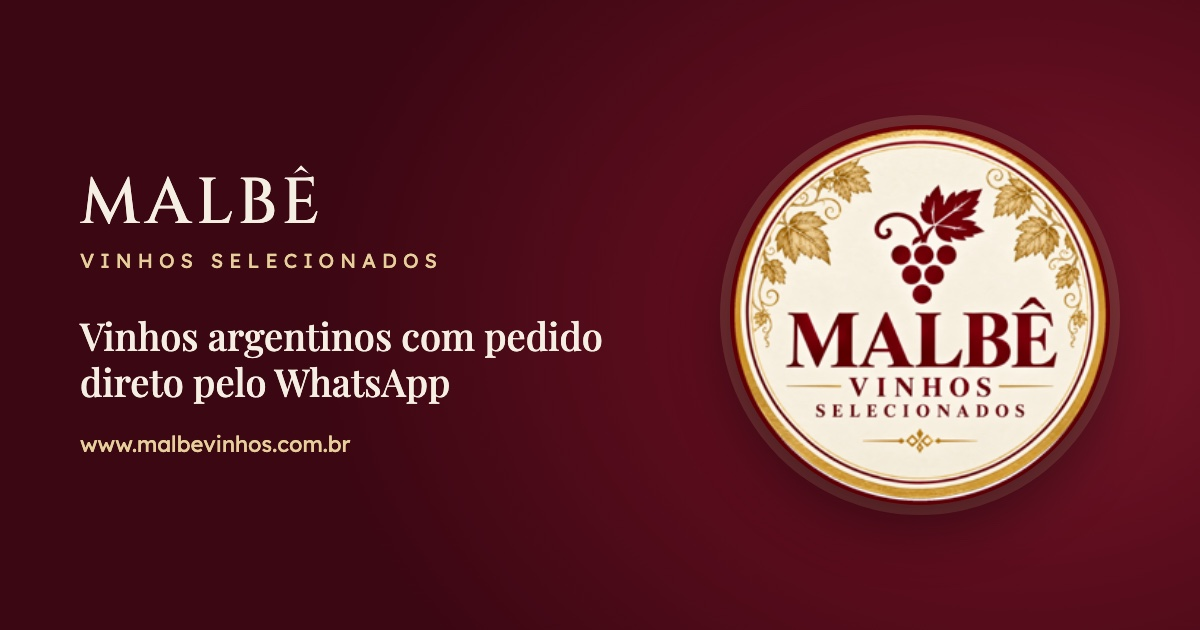
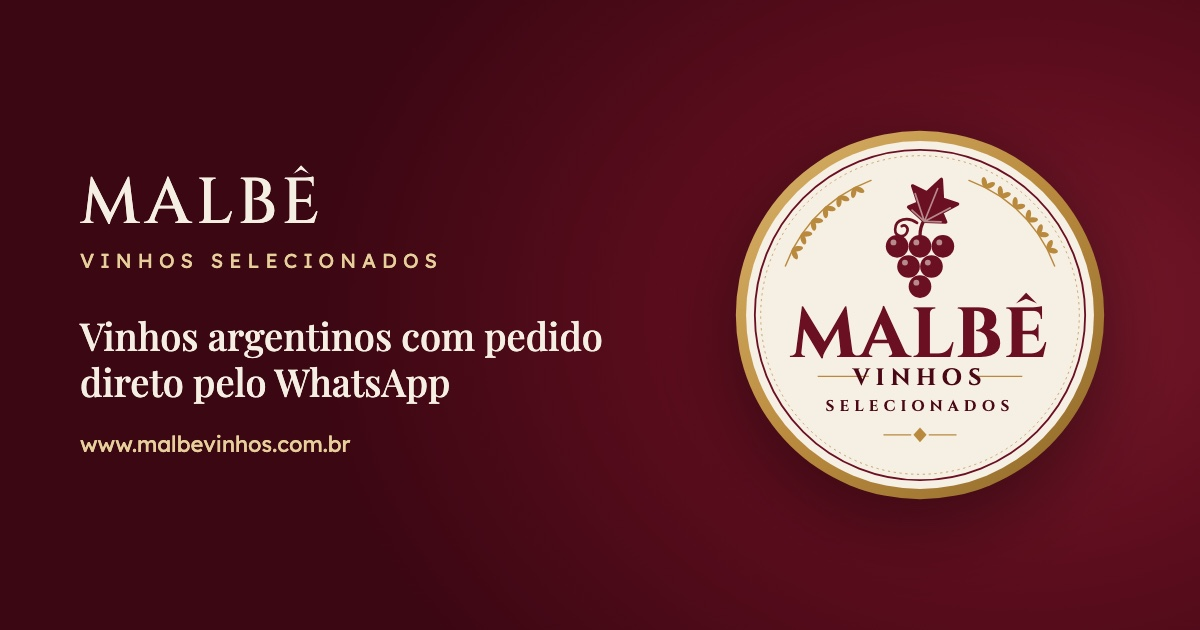
Marca nova: selo em vetor e ícone simplificado
- img/marca/selo.svg (aviso de idade, vinho sem foto, imagem de compartilhamento)
- img/marca/icone.svg no cabeçalho, no painel e como ícone da aba (+ PNG 32px e
  ícone de tela inicial 180px com fundo bordô)
- scripts/marca/gerar-marca.py regera os SVGs; fonte Cinzel embutida (só as letras usadas)
- remove o selo antigo em PNG

Changed region(s): [[0.5858, 0.181, 0.9558, 0.8143]]

diff --git a/index.html b/index.html
@@ -7,7 +7,10 @@
 <meta name="referrer" content="strict-origin-when-cross-origin">
 <title>Malbê Vinhos Selecionados</title>
 <meta name="description" content="Vinhos argentinos selecionados pela Malbê. Escolha os rótulos e faça o pedido pelo WhatsApp.">
-<link rel="icon" href="img/selo.png">
+<link rel="icon" href="img/marca/icone.svg" type="image/svg+xml">
+<link rel="icon" href="img/marca/favicon-32.png" sizes="32x32" type="image/png">
+<link rel="apple-touch-icon" href="img/marca/apple-touch-icon.png">
+<meta name="theme-color" content="#5c0d1d">
 <link rel="canonical" href="https://www.malbevinhos.com.br/">
 <meta property="og:type" content="website">
 <meta property="og:site_name" content="Malbê Vinhos Selecionados">
@@ -60,7 +63,7 @@ button{font:inherit;cursor:pointer}
 header.topo{background:var(--bordo);color:var(--papel);position:sticky;top:0;z-index:20;box-shadow:0 1px 0 rgba(0,0,0,.25)}
 .topo > .wrap{display:flex;align-items:center;gap:20px;min-height:76px}
 .marca{display:flex;align-items:center;gap:12px;text-decoration:none}
-.marca img,.idade img{border-radius:50%}
+.marca img{border-radius:50%}
 .marca img{width:54px;height:54px}
 .marca span{font-family:var(--marca);font-weight:500;font-size:27px;letter-spacing:.08em;line-height:1}
 .marca small{display:block;font-family:var(--sans);font-size:12px;letter-spacing:.04em;color:var(--ouro-claro);margin-top:4px}
@@ -208,7 +211,7 @@ aside.carrinho.aberto{transform:none}
 .idade{position:fixed;inset:0;z-index:60;background:rgba(58,7,18,.92);display:grid;place-items:center;padding:20px}
 .idade[hidden]{display:none}
 .idade div{background:var(--papel);border-radius:10px;max-width:400px;padding:32px 28px;text-align:center}
-.idade img{width:96px;height:96px;margin:0 auto 14px}
+.idade img{width:132px;height:132px;margin:0 auto 16px}
 .idade h2{font-family:var(--serif)}
 .idade h2{font-size:26px;margin-bottom:8px}
 .idade p{color:var(--cinza);margin:0 0 20px}
@@ -241,7 +244,7 @@ aside.carrinho.aberto{transform:none}
 
 <div class="idade" id="idade" hidden role="dialog" aria-modal="true" aria-labelledby="idade-titulo">
   <div>
-    <img src="img/selo.png" alt="">
+    <img src="img/marca/selo.svg" alt="">
     <h2 id="idade-titulo">Você tem 18 anos ou mais?</h2>
     <p>A venda de bebidas alcoólicas é proibida para menores de 18 anos.</p>
     <button class="btn btn-ouro" id="sou-maior">Sim, tenho 18 anos ou mais</button>
@@ -254,7 +257,7 @@ aside.carrinho.aberto{transform:none}
 <header class="topo">
   <div class="wrap">
     <a class="marca" href="#inicio" aria-label="Malbê Vinhos, início">
-      <img src="img/selo.png" alt="">
+      <img src="img/marca/icone.svg" alt="">
       <span>MALBÊ<small>Vinhos selecionados</small></span>
     </a>
     <label class="busca">

diff --git a/admin.html b/admin.html
@@ -7,7 +7,10 @@
 <meta name="referrer" content="strict-origin-when-cross-origin">
 <meta name="robots" content="noindex, nofollow">
 <title>Painel Malbê</title>
-<link rel="icon" href="img/selo.png">
+<link rel="icon" href="img/marca/icone.svg" type="image/svg+xml">
+<link rel="icon" href="img/marca/favicon-32.png" sizes="32x32" type="image/png">
+<link rel="apple-touch-icon" href="img/marca/apple-touch-icon.png">
+<meta name="theme-color" content="#5c0d1d">
 <link href="https://fonts.googleapis.com/css2?family=Cinzel:wght@500&family=Playfair+Display:wght@500;600&family=Lexend:wght@300;400;500;600&display=swap" rel="stylesheet">
 <style>
 :root{
@@ -114,7 +117,7 @@ tr.inativo td.acao,tr.inativo td.ativo{opacity:1}
 <body>
 <header>
   <div class="wrap">
-    <img src="img/selo.png" alt="">
+    <img src="img/marca/icone.svg" alt="">
     <div><b>MALBÊ</b><br><span>Painel de vinhos</span></div>
     <div class="dir"><a href="./" target="_blank" rel="noopener">Ver o site</a><button class="sair" id="sair" hidden>Sair</button></div>
   </div>
@@ -165,7 +168,7 @@ tr.inativo td.acao,tr.inativo td.ativo{opacity:1}
     <div class="cartao" id="editor" hidden>
       <h2 id="editor-titulo">Novo vinho</h2>
       <div class="form">
-        <div class="foto"><img id="f-preview" src="img/selo.png" alt=""></div>
+        <div class="foto"><img id="f-preview" src="img/marca/selo.svg" alt=""></div>
         <div>
           <div class="campos">
             <div class="c6"><label for="f-nome">Nome</label><input type="text" id="f-nome"></div>

diff --git a/js/admin.js b/js/admin.js
@@ -139,7 +139,7 @@ function abrirEditor(id, v, precoMistral){
 function preview(){
   const img = $("#f-preview"); img.classList.remove("quadrada");
   img.onload = function(){ if(this.naturalWidth/this.naturalHeight > .8) this.classList.add("quadrada"); };
-  img.src = $("#f-foto").value || "img/selo.png";
+  img.src = $("#f-foto").value || "img/marca/selo.svg";
 }
 $("#f-foto").addEventListener("change", preview);
 function contarDesc(){ $("#f-desc-cont").textContent = `${$("#f-desc").value.length} de 280 caracteres`; }
@@ -184,7 +184,7 @@ function desenharLista(){
   $("#resumo").textContent = `${produtos.length} vinhos cadastrados, ${ativos} aparecendo no site, ${disp} disponíveis para compra. "No site" desligado esconde o vinho; "Disponível" desligado mostra esmaecido.`;
   $("#lista").innerHTML = produtos.map(p => `
     <tr class="${p.ativo === false ? "inativo" : ""}" data-id="${esc(p.id)}">
-      <td><div class="mini"><img src="${esc(p.foto || "img/selo.png")}" alt=""></div></td>
+      <td><div class="mini"><img src="${esc(p.foto || "img/marca/selo.svg")}" alt=""></div></td>
       <td class="nome"><b>${esc(p.nome)}</b><small>${esc(p.vinicola)}</small></td>
       <td class="col-tipo">${esc(p.tipo)}</td>
       <td><input type="text" inputmode="decimal" value="${Number.isFinite(p.preco) ? p.preco.toFixed(2).replace(".", ",") : ""}" placeholder="Consulta" data-campo="preco" aria-label="Preço de ${esc(p.nome)}"></td>

diff --git a/js/site.js b/js/site.js
@@ -15,7 +15,7 @@ const LOJA = {
 let VINHOS = [];
 /* ============================================ */
 
-const fotoDe = v => v.foto || "img/selo.png";
+const fotoDe = v => v.foto || "img/marca/selo.svg";
 const esc = t => String(t ?? "").replace(/[&<>"']/g, c => ({"&":"&amp;","<":"&lt;",">":"&gt;",'"':"&quot;","'":"&#39;"}[c]));
 const brl = v => v.toLocaleString("pt-BR",{style:"currency",currency:"BRL"});
 const $ = s => document.querySelector(s);

diff --git a/scripts/marca/gerar-marca.py b/scripts/marca/gerar-marca.py
@@ -1,0 +1,118 @@
+"""Gera as versões vetoriais da marca Malbê: selo completo e ícone simplificado."""
+import pathlib, sys
+
+AQUI = pathlib.Path(__file__).parent
+DESTINO = pathlib.Path(sys.argv[1])
+DESTINO.mkdir(parents=True, exist_ok=True)
+FONTE = (AQUI / "cinzel.b64").read_text().strip()
+
+BORDO = "#6b1022"
+BORDO_ESC = "#4a0816"
+OURO = "#b98a3e"
+OURO_CLARO = "#d9b46a"
+CREME = "#f6efe3"
+
+ESTILO = f"""<style>@font-face{{font-family:"MalbeCinzel";font-weight:700;src:url(data:font/woff2;base64,{FONTE}) format("woff2")}}
+.t{{font-family:"MalbeCinzel","Cinzel","Trajan Pro",Georgia,serif;font-weight:700;text-anchor:middle}}</style>"""
+
+
+def cacho(cx, cy, r, cor, brilho):
+    """Cacho de uva em pirâmide (3, 2, 1) centrado em cx; cy é o topo da primeira fileira."""
+    passo = r * 2.02
+    linhas = [(-1, 0), (0, 0), (1, 0), (-0.5, 1), (0.5, 1), (0, 2)]
+    out = []
+    for dx, dy in linhas:
+        x, y = cx + dx * passo, cy + dy * passo * 0.88
+        out.append(f'<circle cx="{x:.1f}" cy="{y:.1f}" r="{r:.1f}" fill="{cor}"/>')
+        out.append(f'<circle cx="{x - r*0.32:.1f}" cy="{y - r*0.34:.1f}" r="{r*0.26:.1f}" fill="{brilho}" opacity=".55"/>')
+    return "\n".join(out)
+
+
+def folha(x, y, s, cor, veia, giro=18):
+    """Folha de videira com cinco lobos pontudos. (x, y) é o pé do talo; s é a escala; giro em graus."""
+    pts = [(0,0),(-19,-7),(-12,-14),(-23,-27),(-8,-26),(0,-43),(8,-26),(23,-27),(12,-14),(19,-7)]
+    d = "M" + " L".join(f"{px},{py}" for px, py in pts) + " Z"
+    veias = " ".join(f"M0,0 L{px*0.78:.1f},{py*0.78:.1f}" for px, py in [(-19,-7),(-23,-27),(0,-43),(23,-27),(19,-7)])
+    return (f'<g transform="translate({x},{y}) rotate({giro}) scale({s})">'
+            f'<path d="{d}" fill="{cor}" stroke="{cor}" stroke-width="3" stroke-linejoin="round"/>'
+            f'<path d="{veias}" stroke="{veia}" stroke-width="1.6" fill="none" stroke-linecap="round" opacity=".55"/></g>')
+
+
+def gavinha(x, y, s, cor):
+    return (f'<path d="M{x},{y} c{-8*s},{-6*s} {-20*s},{-4*s} {-20*s},{6*s} c0,{7*s} {9*s},{8*s} {11*s},{2*s} '
+            f'c{1.5*s},{-4*s} {-2*s},{-7*s} {-5*s},{-5*s}" stroke="{cor}" stroke-width="{2.4*s:.2f}" '
+            f'fill="none" stroke-linecap="round"/>')
+
+
+def ramo(cx, cy, raio, inicio, fim, lado, cor):
+    """Ramo dourado de folhinhas acompanhando o círculo, do ângulo inicio ao fim (graus)."""
+    import math
+    out = []
+    pts = []
+    n = 7
+    for i in range(n + 1):
+        a = math.radians(inicio + (fim - inicio) * i / n)
+        pts.append((cx + raio * math.cos(a), cy + raio * math.sin(a)))
+    d = "M" + " L".join(f"{x:.1f},{y:.1f}" for x, y in pts)
+    out.append(f'<path d="{d}" stroke="{cor}" stroke-width="2" fill="none" stroke-linecap="round"/>')
+    for i in range(1, n):
+        a = math.radians(inicio + (fim - inicio) * i / n)
+        x, y = cx + raio * math.cos(a), cy + raio * math.sin(a)
+        ang = math.degrees(a) + (90 if lado > 0 else -90)
+        for desvio in (-38, 38):
+            out.append(f'<ellipse cx="0" cy="-7" rx="3.6" ry="7.5" fill="{cor}" '
+                       f'transform="translate({x:.1f},{y:.1f}) rotate({ang + desvio:.1f})"/>')
+    return "\n".join(out)
+
+
+def selo():
+    c = 260
+    partes = [
+        f'<svg xmlns="http://www.w3.org/2000/svg" viewBox="0 0 520 520" role="img" aria-label="Malbê Vinhos Selecionados">',
+        ESTILO,
+        f'<defs><linearGradient id="ouro" x1="0" y1="0" x2="1" y2="1"><stop offset="0" stop-color="{OURO_CLARO}"/>'
+        f'<stop offset=".5" stop-color="{OURO}"/><stop offset="1" stop-color="#8f6a2a"/></linearGradient></defs>',
+        f'<circle cx="{c}" cy="{c}" r="252" fill="url(#ouro)"/>',
+        f'<circle cx="{c}" cy="{c}" r="238" fill="{CREME}"/>',
+        f'<circle cx="{c}" cy="{c}" r="226" fill="none" stroke="{BORDO}" stroke-width="2.5"/>',
+        f'<circle cx="{c}" cy="{c}" r="218" fill="none" stroke="{OURO}" stroke-width="1" stroke-dasharray="2 6" stroke-linecap="round"/>',
+        ramo(c, c, 196, 200, 250, -1, OURO),
+        ramo(c, c, 196, 340, 290, 1, OURO),
+        gavinha(256, 134, 1.5, BORDO),
+        f'<path d="M260,152 C260,142 262,136 266,130" stroke="{BORDO}" stroke-width="4.5" fill="none" stroke-linecap="round"/>',
+        folha(266, 132, 1.45, BORDO, CREME, 22),
+        cacho(c, 166, 15.5, BORDO, CREME),
+        f'<text class="t" x="{c}" y="318" font-size="96" fill="{BORDO}" letter-spacing="2">MALBÊ</text>',
+        f'<path d="M120,344 H190 M330,344 H400" stroke="{OURO}" stroke-width="2"/>',
+        f'<text class="t" x="{c}" y="356" font-size="32" fill="{BORDO_ESC}" letter-spacing="8">VINHOS</text>',
+        f'<text class="t" x="{c}" y="392" font-size="21" fill="{BORDO_ESC}" letter-spacing="7">SELECIONADOS</text>',
+        f'<path d="M210,424 H248 M272,424 H310" stroke="{OURO}" stroke-width="1.6"/>',
+        f'<path d="M260,414 l9,10 l-9,10 l-9,-10 z" fill="{OURO}"/>',
+        '</svg>',
+    ]
+    return "\n".join(partes)
+
+
+def icone(fundo=True):
+    """Ícone simplificado: cacho + folha, legível a partir de 16px."""
+    c = 32
+    partes = [f'<svg xmlns="http://www.w3.org/2000/svg" viewBox="0 0 64 64" role="img" aria-label="Malbê">']
+    if fundo:
+        partes += [f'<circle cx="{c}" cy="{c}" r="32" fill="{BORDO}"/>',
+                   f'<circle cx="{c}" cy="{c}" r="29.2" fill="none" stroke="{OURO_CLARO}" stroke-width="1.6"/>']
+        uva, brilho, verde = CREME, BORDO, OURO_CLARO
+    else:
+        uva, brilho, verde = BORDO, CREME, OURO
+    partes += [
+        f'<path d="M32,27 C32,24.5 32.6,22.8 33.6,21.4" stroke="{verde}" stroke-width="1.8" fill="none" stroke-linecap="round"/>',
+        folha(33.6, 22, 0.36, verde, BORDO if fundo else CREME, 22),
+        cacho(c, 31, 4.9, uva, brilho),
+        '</svg>',
+    ]
+    return "\n".join(partes)
+
+
+(DESTINO / "selo.svg").write_text(selo())
+(DESTINO / "icone.svg").write_text(icone(True))
+(DESTINO / "icone-transparente.svg").write_text(icone(False))
+print("ok", [p.name for p in DESTINO.iterdir()])
